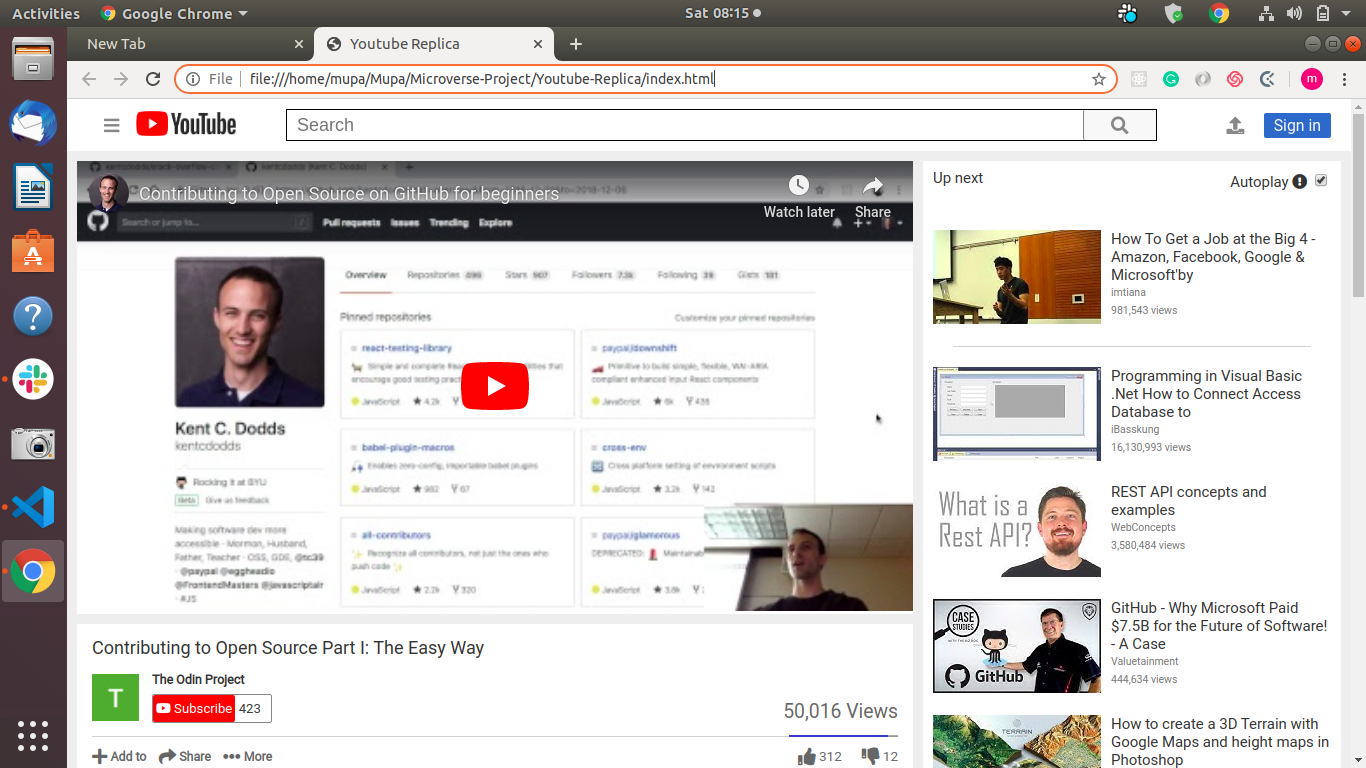
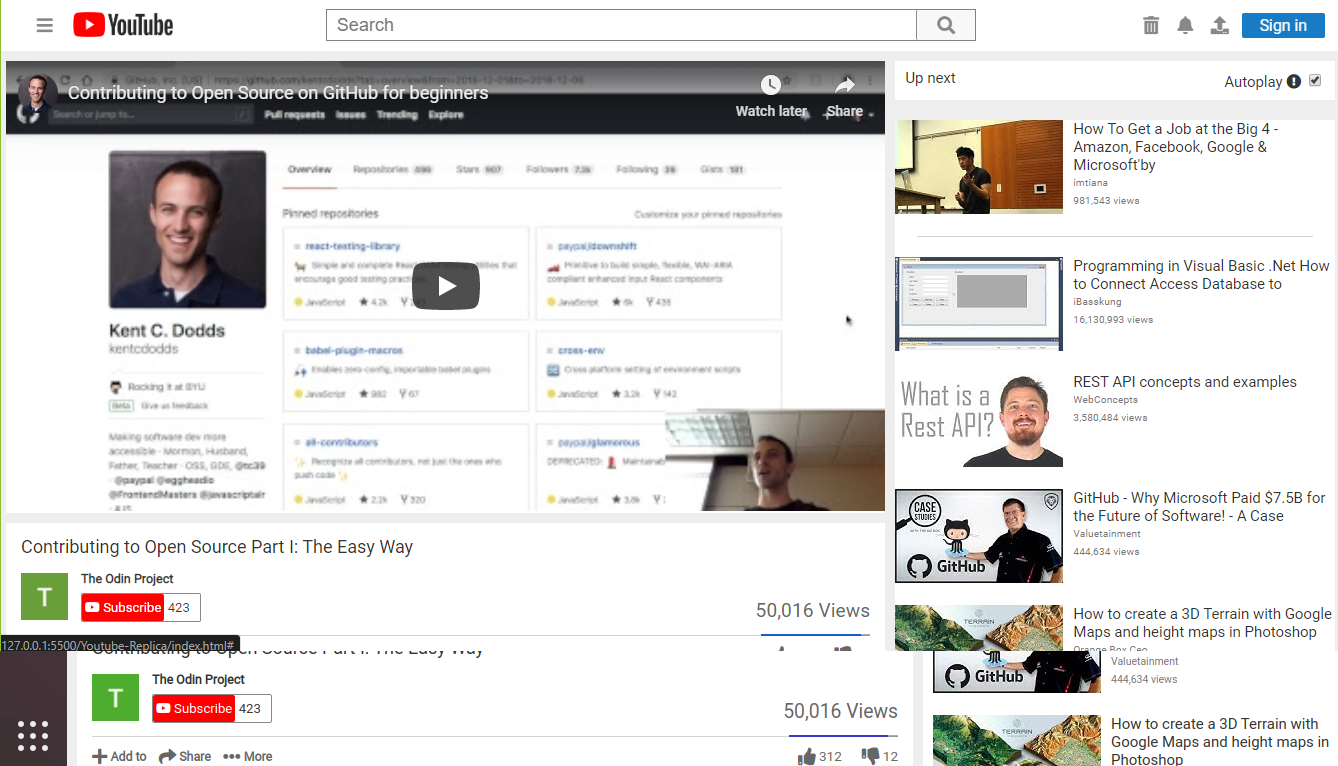
added .gitignor

diff --git a/index.html b/index.html
@@ -22,6 +22,8 @@
                 <button class="fas fa-search header-icons search-btn"></button>
             </div>
             <div class="right-container">
+                <button class="fa fa-th header-icons"></button>
+                <button class="fas fa-bell header-icons"></i></button>
                 <button id="upload-icon" class="fas fa-upload header-icons"></button>
                 <button id="signin-btn">Sign in</button>
             </div>
@@ -80,8 +82,7 @@
                 <div class="more-info"><button>SHOW MORE</button></div>
             </div>
             <div class="comment-sec">
[1 lines of base64/hex data omitted]
-                <span class="loading-txt">Loading...</span>
+                <span class="loading-txt">Comments are disabled for this video</span>
             </div>
             
         </section>

diff --git a/styles/styles.css b/styles/styles.css
@@ -98,6 +98,8 @@ header {
 
 .header-icons {
     color: #888;
+    margin-left: 10px;
+    flex: 1;
 }
 header img {
     height: 25px;
@@ -119,8 +121,8 @@ header img {
     display: flex;
     width: 70%;
     min-width: 200px;
-    max-width: 900px;
-    border: 1px solid black;
+    max-width: 650px;
+    border: 1px solid grey;
     margin: none;
 }
 .search-text {
@@ -141,6 +143,7 @@ header img {
     background-color: #f8f8f8;
     display: inline-block;
     border-left: 1px solid grey;
+    padding: 0 20px;
     
 }
 
@@ -158,13 +161,9 @@ header img {
 
 .right-container {
     display: flex;
-    width: 10%;
+    width: 15%;
 }
 
-#upload-icon {
-    flex: 1;
-    margin: auto;
-}
 #signin-btn {
     flex: 1;
     margin: auto;
@@ -172,6 +171,8 @@ header img {
     background-color: rgb(22, 122, 198);
     color: #f8f8f8;
     padding: 5px;
+    flex: 3;
+    margin-left: 10px;
 }
 
  /* end of header */
